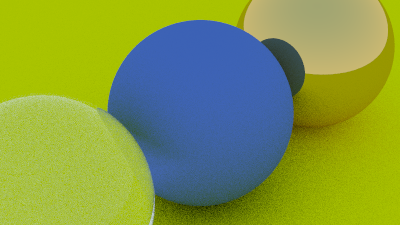
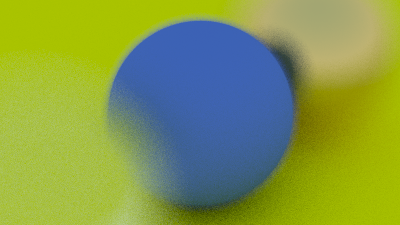
Task 11: DoF

Changed region(s): [[0.0, 0.0, 1.0, 1.0]]

diff --git a/src/camera.rs b/src/camera.rs
@@ -1,4 +1,5 @@
 use derive_more::Constructor;
+use rand::{Rng, random};
 
 use crate::ray::Ray;
 use crate::vector::{Vec3, Point};
@@ -11,30 +12,39 @@ pub struct Axes {
     pub z: Vec3,
 }
 
-
-
 #[derive(Debug)]
 pub struct Camera {
     pub pos: Point,
     pub axes: Axes,
+    pub u: Vec3,
+    pub v: Vec3,
+    pub lens_rad: f64,
 }
 
 impl Camera {
-    pub fn new(fov: f64, aspect_ratio: f64, look_from: Point, look_at: Point, up: Vec3) -> Self {
+    pub fn new(fov: f64, aspect_ratio: f64, look_from: Point, look_at: Point, up: Vec3, aperture: f64, focus_dist: f64) -> Self {
         dbg!(look_from, look_at);
         let angle = fov.to_radians();
         let vh = (angle / 2.).tan() * 2.;
         let vw = vh * aspect_ratio;
 
-        let w = look_from - look_at;
-        let u = up.cross(w);
+        let w = (look_from - look_at).norm();
+        let u = up.cross(w).norm();
         let v = w.cross(u);
         dbg!(u, v, w);
 
         dbg!(Self { 
             pos: look_from,
-            axes: Axes::new(u.norm() * vw, v.norm() * vh, w.norm()),
+            axes: Axes::new(focus_dist * u * vw, focus_dist * v * vh, focus_dist * w),
+            u, v, lens_rad: aperture / 2.
         })
+    }
+
+    fn circle_sample() -> Vec3 {
+        let r = random::<f64>().sqrt();
+        let theta = random::<f64>() * std::f64::consts::TAU;
+        
+        v!(r * theta.cos(), r * theta.sin(), 0)
     }
 
     pub fn tl(&self) -> Vec3 {
@@ -42,7 +52,9 @@ impl Camera {
     }
 
     pub fn get_ray(&self, x: f64, y: f64) -> Ray {
+        let r = Self::circle_sample() * self.lens_rad;
+        let o = self.pos + self.u * r.x + self.v * r.y;
         let vxy = self.tl() + x * self.axes.x - y * self.axes.y;
-        Ray::towards(self.pos, vxy)
+        Ray::towards(o, vxy)
     }
 }

diff --git a/src/main.rs b/src/main.rs
@@ -31,12 +31,14 @@ fn colour(ray: &Ray, scene: &Scene, depth: u32) -> Colour {
 }
 
 fn main() {
-    let samples = 50;
+    let samples = 100;
     let max_depth = 20;
     let asp_ratio = 16. / 9.;
     let pxw = 400;
     let pxh = ((pxw as f64) / asp_ratio) as u32;
-    let c = Camera::new(20., asp_ratio, v!(-2, 2, 1), v!(0, 0, -1), v!(0, 1, 0));
+    let from = v!(-2, 2, 1);
+    let to = v!(0, 0, -1);
+    let c = Camera::new(20., asp_ratio, from, to, v!(0, 1, 0), 2.0, from.dist(to));
 
     let R = (PI/4.).cos();
     let scene: Scene = vec![
